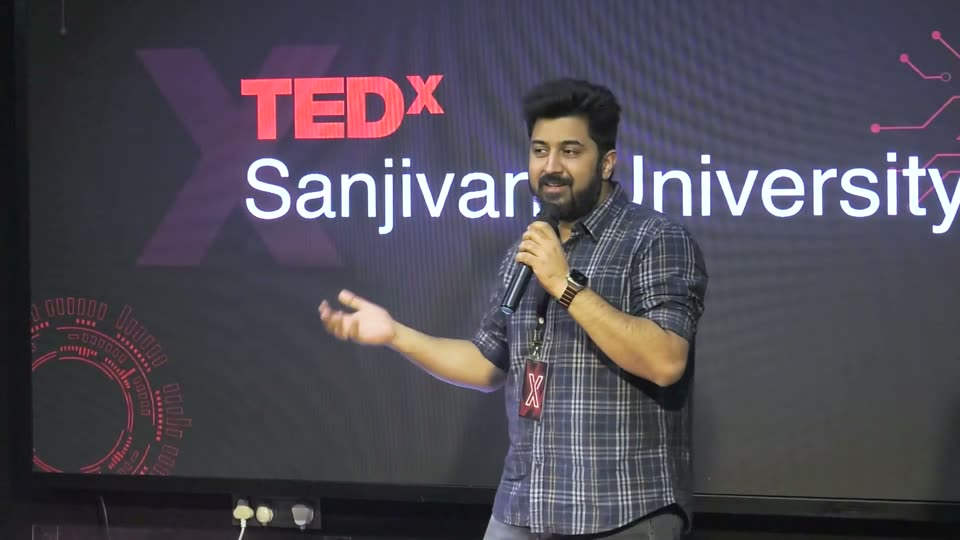
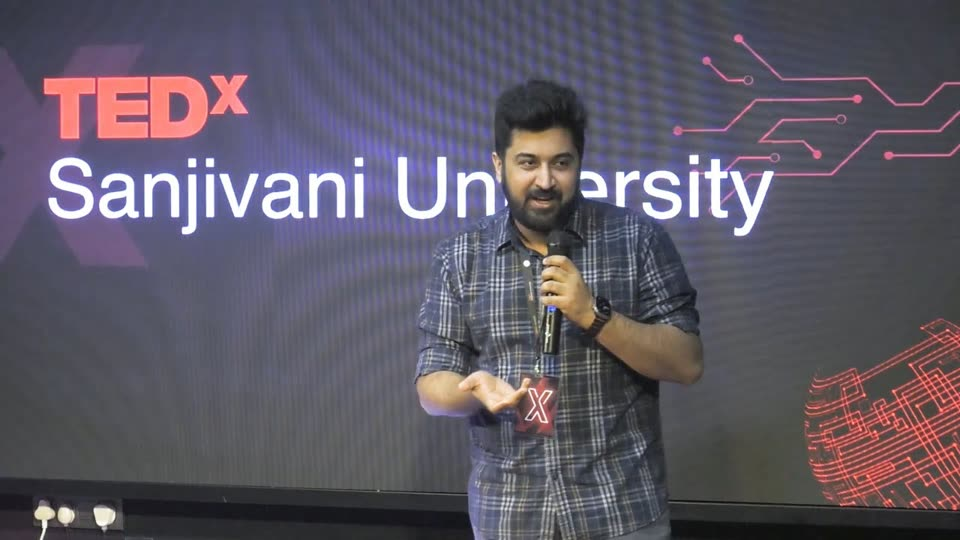
v1.6.0: swap portrait to X profile photo (Rushi's pick), OG name wrap

diff --git a/app/page.tsx b/app/page.tsx
@@ -780,15 +780,12 @@ export default function Home() {
               <figure style={{ margin: 0 }}>
                 <img
                   src="/rushi.jpg"
-                  alt="Dr. Rushindra Sinha speaking at TEDx Sanjivani University"
-                  width={720}
-                  height={900}
+                  alt="Dr. Rushindra Sinha"
+                  width={400}
+                  height={400}
                   loading="lazy"
-                  style={{ width: "100%", height: "auto", aspectRatio: "4 / 5", objectFit: "cover", borderRadius: 14, border: `1px solid ${C.border}`, display: "block" }}
+                  style={{ width: "100%", maxWidth: 400, height: "auto", aspectRatio: "1 / 1", objectFit: "cover", borderRadius: 14, border: `1px solid ${C.border}`, display: "block" }}
                 />
-                <figcaption style={{ marginTop: 10, fontSize: 12, color: C.textMid, fontFamily: F.mono }}>
-                  On stage · TEDx Sanjivani University, 2026
-                </figcaption>
               </figure>
             </Reveal>
 

diff --git a/app/opengraph-image.tsx b/app/opengraph-image.tsx
@@ -51,11 +51,13 @@ export default function OpenGraphImage() {
         <div
           style={{
             display: "flex",
-            fontSize: 88,
+            fontSize: 80,
             color: "#e2e0da",
             marginTop: 28,
-            lineHeight: 1.05,
+            lineHeight: 1.02,
             letterSpacing: -2,
+            width: 560,
+            flexWrap: "wrap",
           }}
         >
           Dr. Rushindra Sinha
@@ -84,9 +86,9 @@ export default function OpenGraphImage() {
         </div>
         <img
           src={portrait}
-          width={360}
-          height={450}
-          style={{ position: "absolute", right: 80, top: 90, width: 360, height: 450, objectFit: "cover", borderRadius: 20, border: "3px solid #9cff57" }}
+          width={400}
+          height={400}
+          style={{ position: "absolute", right: 80, top: 115, width: 400, height: 400, objectFit: "cover", borderRadius: 20, border: "3px solid #9cff57" }}
         />
       </div>
     ),

diff --git a/CHANGELOG.md b/CHANGELOG.md
@@ -9,7 +9,7 @@ All changes are logged here. Format: version → date → what changed → who a
 **Redesign pass: builder-in-public hero, grotesk type, portrait, mobile-first. Rushi's calls (#web-dev, 16:34 IST): "Doctor" not "MD", add my best photo, yes to builder-in-public, yes to moving off serif headings. All work by Ares. PENDING push approval.**
 
 ### Added
-- Portrait: TEDx Sanjivani University 2026 frame (1080p from the talk video, cropped 4:5). Shown in the story section (sticky on desktop) and as the hero avatar. Also in the JSON-LD `image` and the OG card.
+- Portrait: Rushi's X profile photo (400×400; his pick, 17:01 IST, replacing a TEDx video frame he vetoed). Shown in the story section (sticky on desktop) and as the hero avatar. Also in the JSON-LD `image` and the OG card. Talk thumbnails use the official YouTube thumbnails.
 - Work cards for Mundhe Maps (mundhemaps.com), Ares, and Agent tooling (openclaw-guide, ares-mbl, skill-audit-router, xreader-mcp). YT Shorts Pipeline now shows "2,300+ GitHub stars". Clutch Creator folded into the xReader card. The grid is now exactly 4×3 on desktop.
 - Talks section: both TEDx talks with stills, titles, and links. "Talks" added to the nav.
 - Copy-email button next to sinha@rushindra.com, because mailto fails on devices with no mail app.
